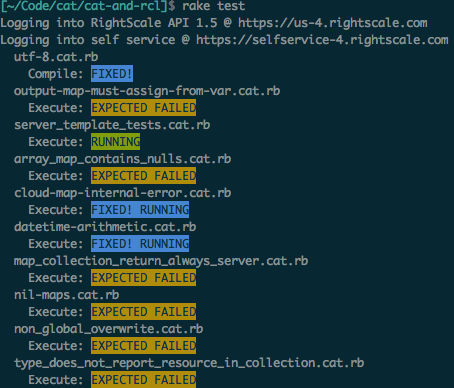
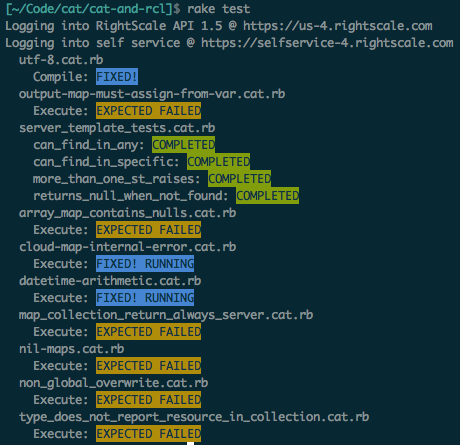
Add operations to test harness

Changed region(s): [[0.0, 0.0, 0.9868, 1.0]]

diff --git a/README.md b/README.md
@@ -60,19 +60,150 @@ end
 API Requests
 ============
 
+There are rake tasks for specific API calls
+
 cloudapp_list
 --------------
+List all your running CloudApps
+
+```
+rake cloudapp_list
+Logging into RightScale API 1.5 @ https://us-4.rightscale.com
+Logging into self service @ https://selfservice-4.rightscale.com
+[
+  {
+    "kind": "self_service#execution",
+    "id": "546e780a1aad6a37a900001c",
+    "name": "foo",
+    "href": "/api/manager/projects/44134/executions/546e780a1aad6a37a900001c",
+    "description": "This is not an empty string",
+    "status": "running",
+    "cost": {
+      "value": "0.00",
+      "unit": "$",
+      "updated_at": null
+    },
+    "deployment": "/api/deployments/504781004",
+    "created_by": {
+      "id": 42138,
+      "name": "Ryan Geyer",
+      "email": "ryan.geyer@rightscale.com"
+    },
+    "timestamps": {
+      "created_at": "2014-11-20T23:23:54+00:00",
+      "launched_at": "2014-11-20T23:23:54+00:00",
+      "terminated_at": null
+    },
+    "links": {
+      "running_operations": {
+        "href": "/api/manager/projects/44134/operations?filter[]=execution_id==546e780a1aad6a37a900001c&filter[]=status==running"
+      },
+      "latest_notifications": {
+        "href": "/api/manager/projects/44134/notifications?filter[]=execution_id==546e780a1aad6a37a900001c"
+      }
+    }
+  }
+]
+
+```
 
 template_compile
 ----------------
+Preprocesses the CAT, then compiles it.  On success, it's pretty quiet.
+
+```
+rake "template_compile[tests/definitions/server_template_tests.cat.rb]"
+Logging into RightScale API 1.5 @ https://us-4.rightscale.com
+Logging into self service @ https://selfservice-4.rightscale.com
+Uploading template to SS compile_template
+Template compiled successfully
+```
+
+If compile fails, you'll know why.
+
+```
+rake "template_compile[tests/parsefail.cat.rb]"
+Logging into RightScale API 1.5 @ https://us-4.rightscale.com
+Logging into self service @ https://selfservice-4.rightscale.com
+Uploading template to SS compile_template
+Failed to compile template
+[
+  {
+    "origin": "template: template.cat, line: 236",
+    "problem": "Undefined variable or method",
+    "summary": "'error' is undefined",
+    "resolution": "Review the list of built-in methods at http://support.rightscale.com"
+  },
+  {
+    "origin": "template: template.cat, line: 0",
+    "problem": "Missing short description",
+    "summary": "Template source is missing 'short_description' declaration",
+    "resolution": "Please add a 'short_description' declaration, e.g. short_description \"My CloudApp\""
+  },
+  {
+    "origin": "template: template.cat, line: 0",
+    "problem": "Missing engine version",
+    "summary": "Template source is missing 'rs_ca_ver' declaration",
+    "resolution": "Please add a 'rs_ca_ver' declaration, e.g. rs_ca_ver \"20121202\""
+  }
+]
+```
 
 template_list
 -------------
+Lists all the available templates, no options, though some would likely be useful
+
+```
+rake template_list                                                                    *[master][ruby-1.9.3-p545@cat-and-rcl]
+Logging into RightScale API 1.5 @ https://us-4.rightscale.com
+Logging into self service @ https://selfservice-4.rightscale.com
+[
+  {
+    "kind": "self_service#template",
+    "id": "546e77cea20be70e1e00007e",
+    "name": "server_template_tests",
+    "filename": "server_template_tests20141120-41959-1gwp7xc.cat.rb",
[1 lines of base64/hex data omitted]
+    "short_description": "This is not an empty string",
+    "created_by": {
+      "id": 42138,
+      "name": "Ryan Geyer",
+      "email": "ryan.geyer@rightscale.com"
+    },
+    "timestamps": {
+      "created_at": "2014-11-20T23:22:54+00:00",
+      "updated_at": "2014-11-20T23:22:54+00:00",
+      "published_at": null
+    }
+  }
+]
+```
 
 template_upsert
 ---------------
+Creates or updates a template based on the CAT name, just like the UI
+
+```
+rake "template_upsert[tests/definitions/server_template_tests.cat.rb]"
+Logging into RightScale API 1.5 @ https://us-4.rightscale.com
+Logging into self service @ https://selfservice-4.rightscale.com
+Template upserted. HREF: /api/designer/collections/44134/templates/546e77cea20be70e1e00007e
+```
 
 #Tests
+
+You can run tests with the "test" rake task.
+
+```
+rake test
+```
+
+By default the test task runs all tests found in tests/\*\*/\*.cat.rb, but you
+can specify your own glob (relative to tests/)
+
+```
+rake "test[system/*.cat.rb]"
+```
 
 ## Test types
 
@@ -191,7 +322,43 @@ end
 
 ### Special Operations Execute
 
-_Not yet implemented_
+You can also create a single CAT with many special operations which will act as
+test cases.
+
+```
+#test_operation:success_one=completed
+#test_operation:success_two=completed
+#test_operation:fail_one=failed
+
+name "op tests"
+rs_ca_ver 20131202
+short_description "This is not an empty string"
+
+operation "success_one" do
+  description "Not empty"
+  definition "success_one"
+end
+
+operation "success_two" do
+  description "Not empty"
+  definition "success_two"
+end
+
+operation "fail_one" do
+  description "Not empty"
+  definition "fail_one"
+end
+
+define success_one() do
+end
+
+define success_two() do
+end
+
+define fail_one() do
+  raise "Fail"
+end
+```
 
 ## Results
 Green - Test completed successfully and with the expected result
@@ -221,3 +388,8 @@ When a test with this tag completes in a state other than the specified state
 it will be marked Yellow.
 
 When a test with this tag completes in the specified state it will be marked Green
+
+### test_operation:<operation name>=(completed|failed)
+You might wanna have a single CAT with multiple test cases.  If so, create the CAT
+and create one special operation for each test case.  Use this tag to specify
+the operation name to run, and the expected outcome.
